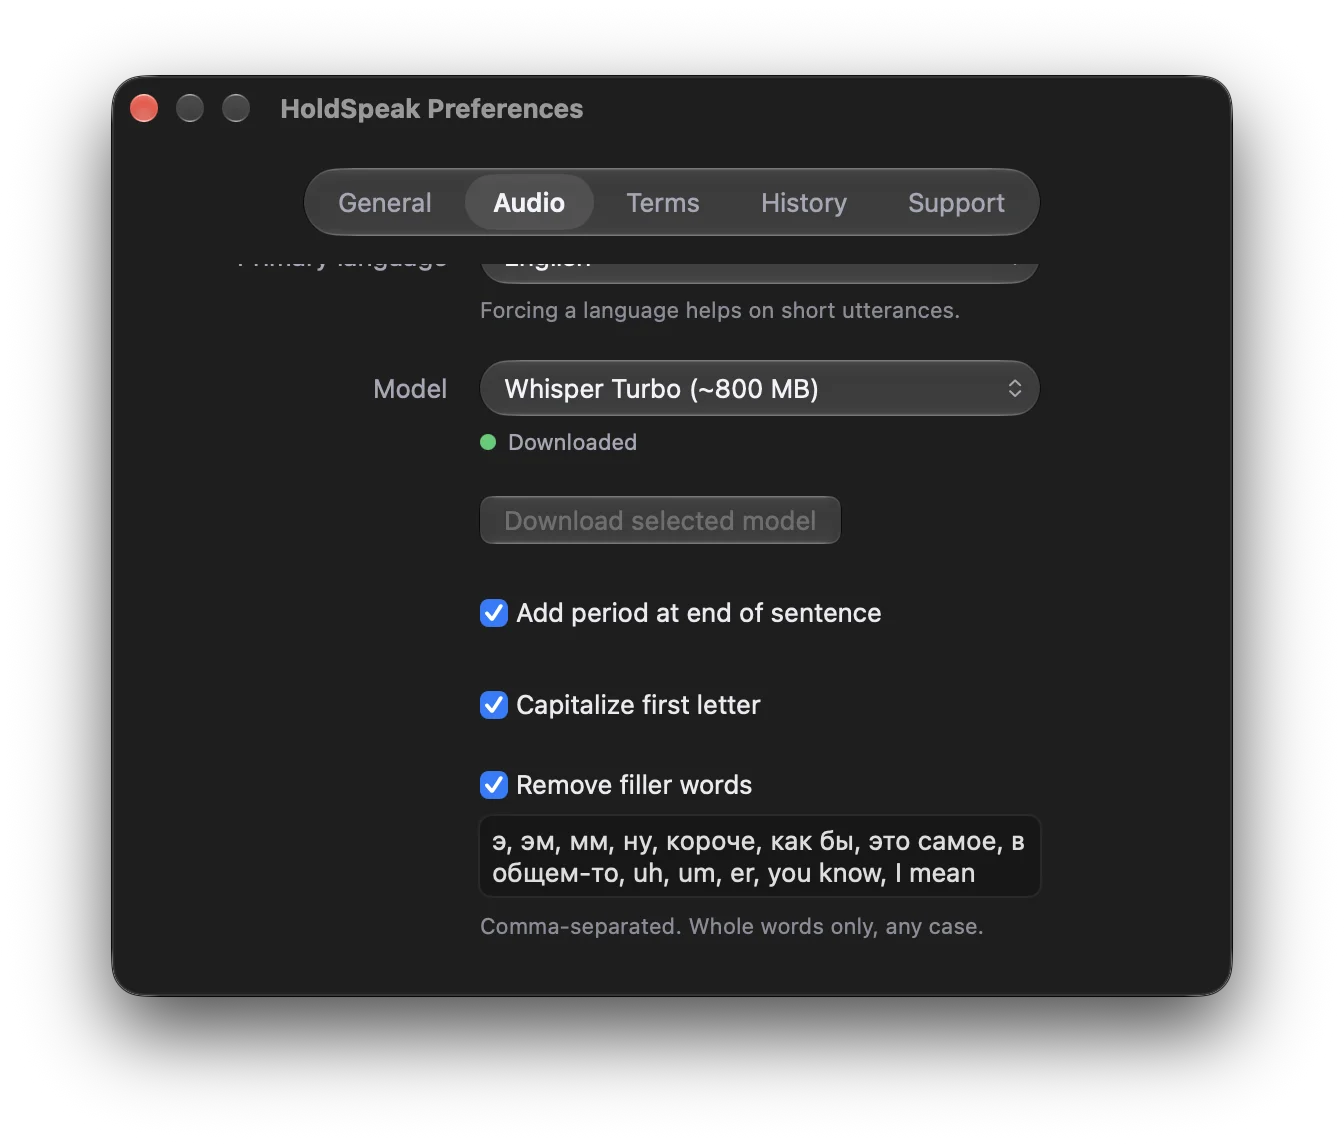
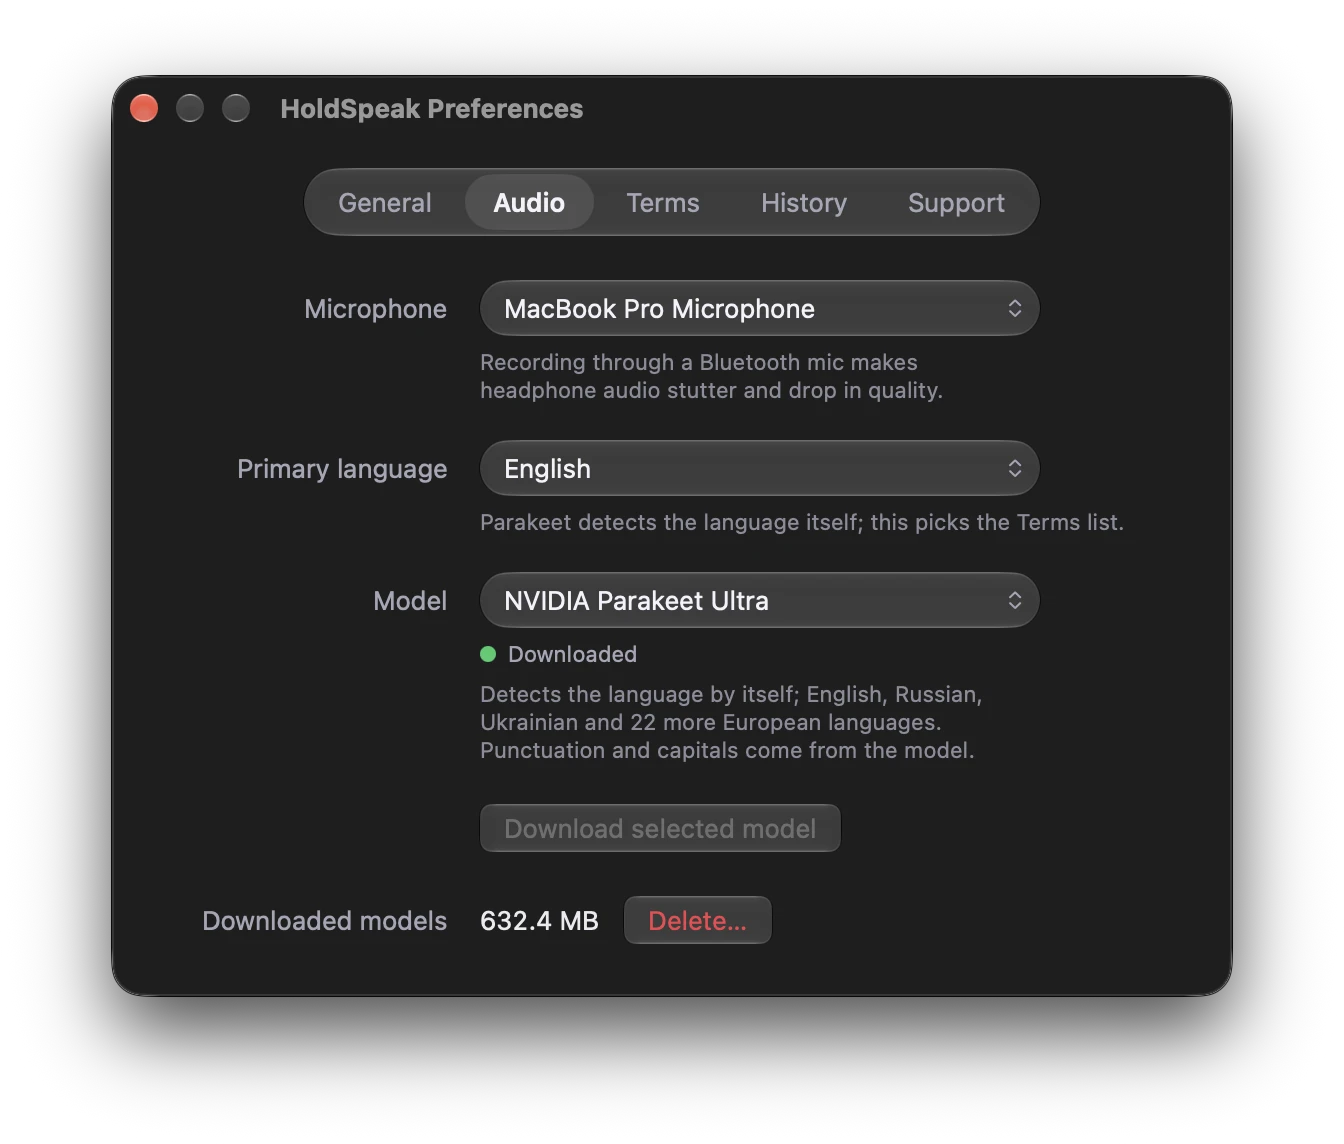
docs(HS-17): new screenshots for v0.5.1 (model list, Audio, Gemini, onboarding)
Claude-Session: https://claude.ai/code/session_01N6aPXDfHT93GT76n7HGJxU

Changed region(s): [[0.1562, 0.2142, 0.8125, 0.826]]

diff --git a/README.md b/README.md
@@ -42,7 +42,7 @@ On first launch, choose how speech is recognized — **Whisper** (on this Mac, d
 The onboarding window has Open… and Re-check buttons.
 
 <p align="center">
-  <img src="docs/screenshots/onboarding.webp?v=4" width="480" alt="Onboarding · choose Whisper or Gemini" />
+  <img src="docs/screenshots/onboarding.webp?v=5" width="480" alt="Onboarding · choose OpenAI Whisper Turbo, Gemini or OpenAI" />
 </p>
 
 ### Updating
@@ -62,6 +62,10 @@ Preferences → Audio → **Model** lists the models in two groups, best first i
 - **On this Mac — free, works offline:** **NVIDIA Parakeet Ultra** (fastest, 25 European languages, 610 MB; macOS 14+ on Apple Silicon, hidden elsewhere) and **OpenAI Whisper Turbo** (large-v3 distilled, 99 languages, slower, 1.5 GB — the default).
 - **Cloud — your API key, pay per use:** **OpenAI GPT Transcribe**, **OpenAI GPT-4o mini**, **Gemini 3.5 Transcribe**, **Gemini 3.5 Flash-Lite** — see below. Each item shows its price per hour of speech.
 
+<p align="center">
+  <img src="docs/screenshots/preferences-models.webp?v=1" width="560" alt="Preferences · Audio · Model list" />
+</p>
+
 If you already have MacWhisper / another WhisperKit client installed, their models will be picked up automatically. Otherwise the first model is downloaded to `~/Library/Application Support/HoldSpeak/Models/`.
 
 To free disk space, Preferences → Audio → **Downloaded models → Delete…** removes every model HoldSpeak downloaded. Models that belong to MacWhisper or other apps are left alone.
@@ -75,7 +79,7 @@ Pick a Gemini model in Preferences → Audio → **Model** (or choose Gemini dur
 3. Paste the key in HoldSpeak and click **Save**. The key is checked with Google and stored in the macOS Keychain, never in preferences files; it survives app updates. After each update macOS asks once to let the new version read the key — enter your Mac password and click **Always Allow** (HoldSpeak is self-signed, so the Keychain sees every new build as a new app).
 
 <p align="center">
-  <img src="docs/screenshots/preferences-audio-gemini.webp?v=5" width="560" alt="Preferences · Audio with Gemini selected" />
+  <img src="docs/screenshots/preferences-audio-gemini.webp?v=6" width="560" alt="Preferences · Audio with Gemini selected" />
 </p>
 
 Models:
@@ -147,7 +151,7 @@ By default, presses shorter than **150 ms** don't start recording — the key be
 <p align="center">
   <img src="docs/screenshots/preferences-general.webp?v=4" width="560" alt="Preferences · General" />
   <br /><br />
-  <img src="docs/screenshots/preferences-audio.webp?v=5" width="560" alt="Preferences · Audio" />
+  <img src="docs/screenshots/preferences-audio.webp?v=6" width="560" alt="Preferences · Audio with NVIDIA Parakeet Ultra" />
 </p>
 
 ### Filler words
